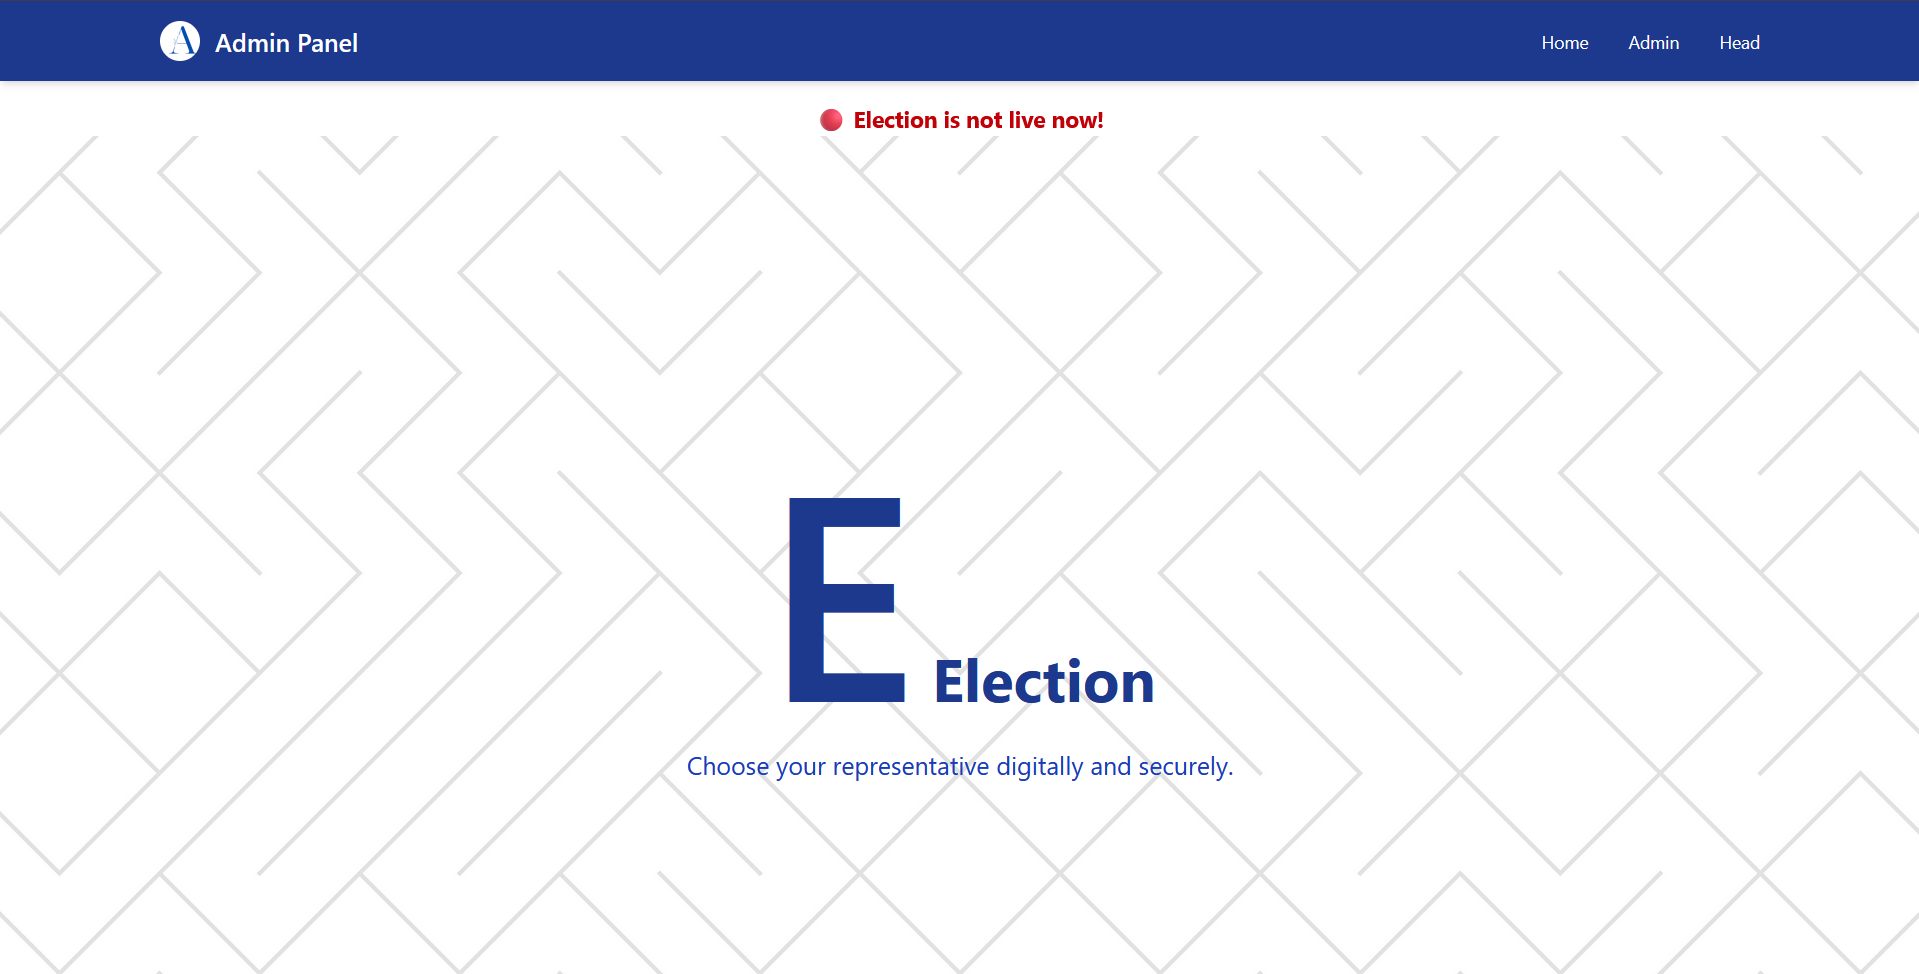
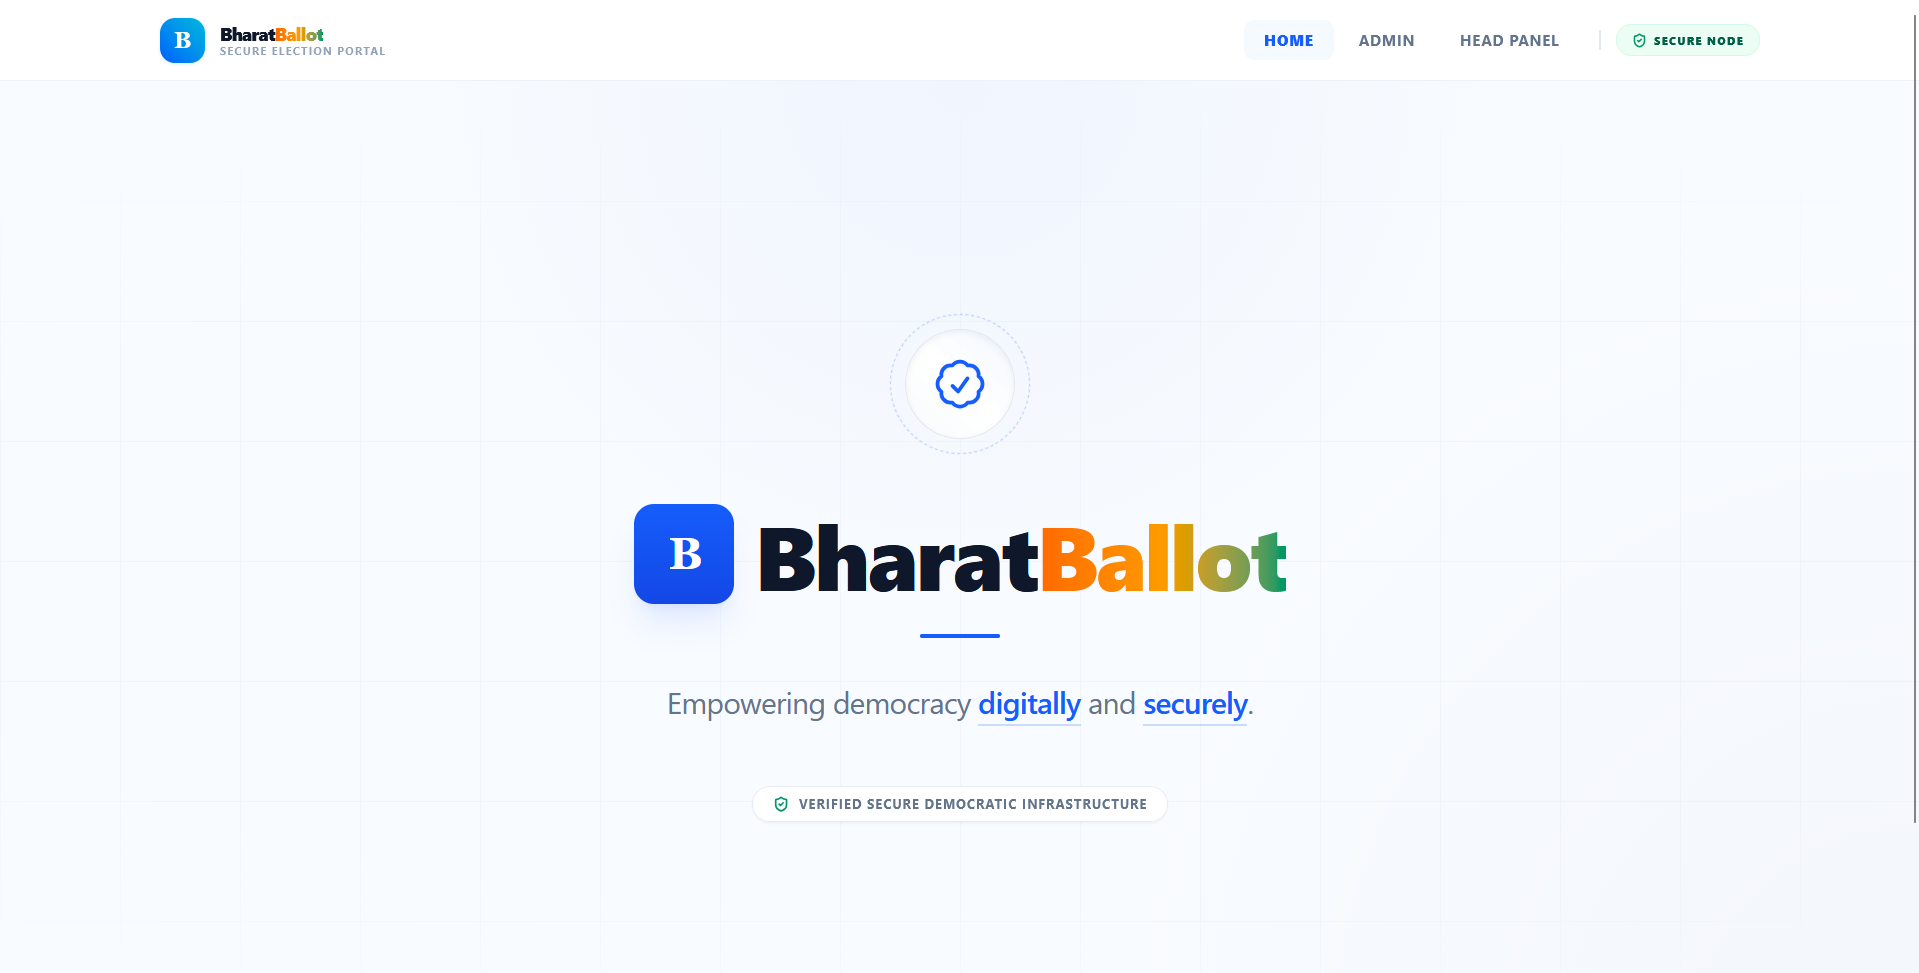
Rename project from "E-Election RAWJET" to "Bharat Ballot" in README.md for clarity

diff --git a/README.md b/README.md
@@ -48,7 +48,7 @@
       <a href="https://routerakshak.onrender.com/">🔗 Live Demo</a> • <a href="https://github.com/Tejwardeep-Singh/RouteRakshak">💻 Codebase</a>
     </td>
     <td width="50%" valign="top">
-      <h3>🗳 E-Election RAWJET</h3>
+      <h3>🗳 Bharat Ballot</h3>
       <p><i>High-Integrity Voting System</i></p>
       <img src="screenshots/el1.png" width="100%" style="border-radius:10px;"/>
       <br><br>
